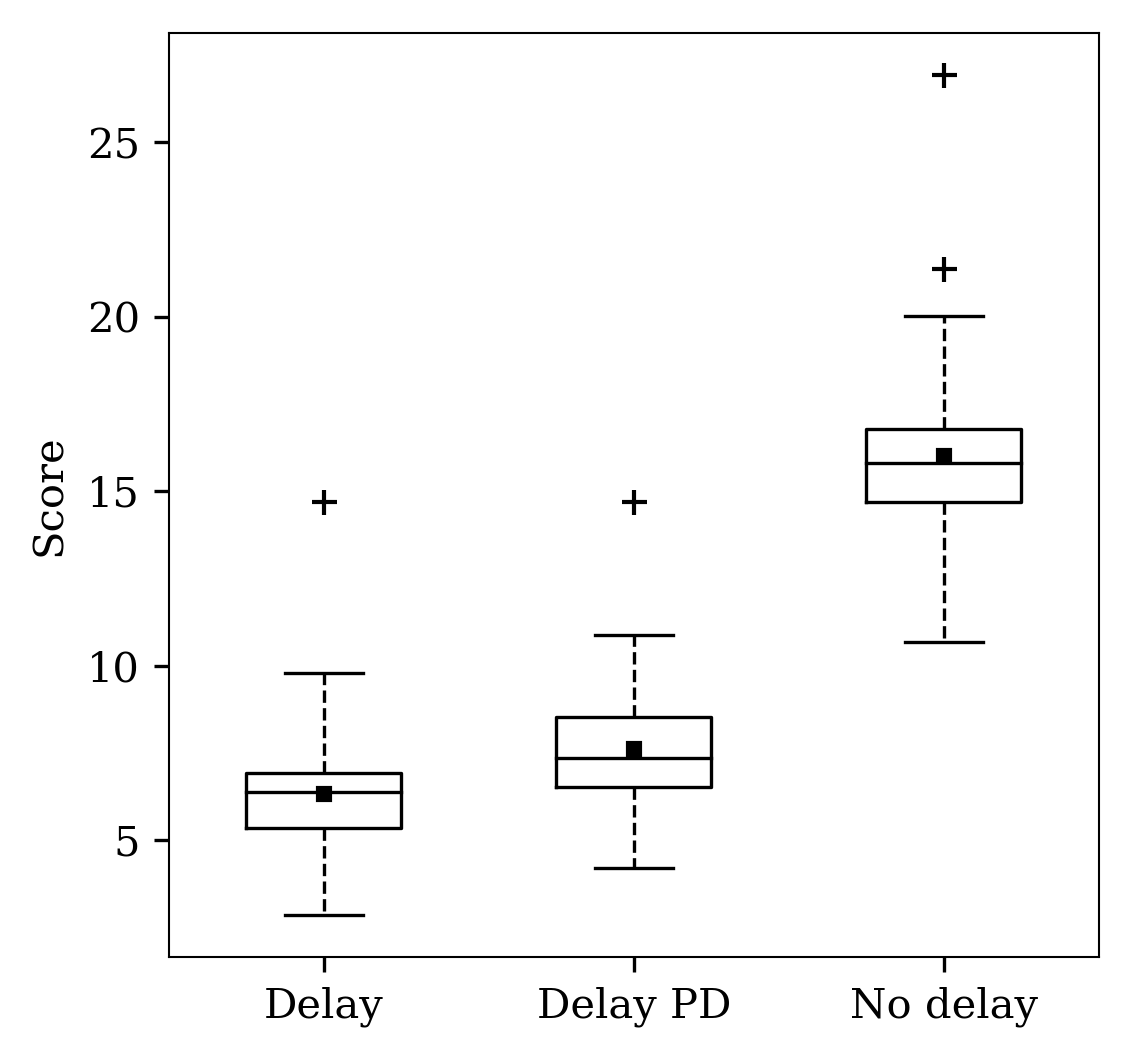
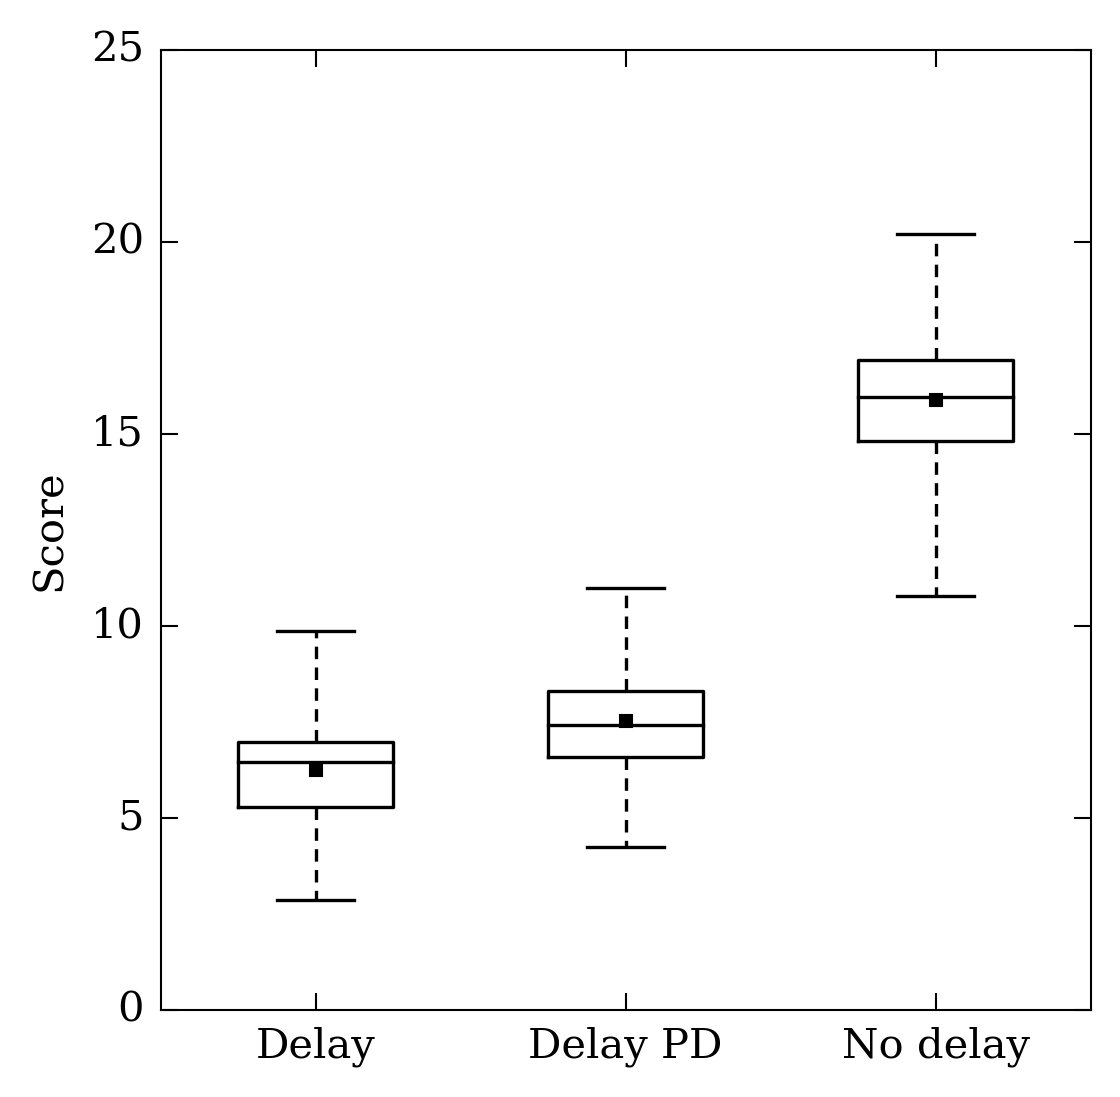
norm fix

diff --git a/tex/discuss.tex b/tex/discuss.tex
@@ -1,12 +1,12 @@
 \section{Performance}
 
-\figref{performanceNorm} together with the statistical data in table \ref{score2} showed that there is a statistical difference in performance when controlling the ROV with and without predictive help. In addition, the effect size of $0.735$ can be categorized as a medium to large effect. Especially when considering how easy and cheap this predictive method is to implement. The subjects performed on average 20\% better. This can be a valuable increase in situations were performance degradation due to communication latency is a problem. With this in mind, H1, that a simple predictor display based on image transformation can increase the operator performance, is therefore verified.
+\figref{performanceNorm} together with the statistical data in table \ref{score2} showed that there is a statistical difference in performance when controlling the ROV with and without predictive help. In addition, the effect size of $0.904$ can be categorized as a medium to large effect. Especially when considering how easy and cheap this predictive method is to implement. The subjects performed on average 20.6\% better. This can be a valuable increase in situations were performance degradation due to communication latency is a problem. With this in mind, H1, that a simple predictor display based on image transformation can increase the operator performance, is therefore verified.
 
-Past research, table \ref{reviewPred}, describes a wide range performance gains from predictive technology. Everything from 8\% to 65\%. It's hard to do a direct comparison to any specific experiment, but a performance increase of 20\% in this experiment is probably in the lower range of what have been found before. What is true though, is that the predictive method described in this thesis is the cheapest and easiest to implement. This holds true when comparing to the experiments in the mentioned table.
+Past research, table \ref{reviewPred}, describes a wide range performance gains from predictive technology. Everything from 8\% to 65\%. It's hard to do a direct comparison to any specific experiment, but a performance increase of 20.6\% in this experiment is probably in the lower range of what has been found before. What is true though, is that the predictive method described in this thesis is the cheapest and easiest to implement. This holds true when comparing to the experiments in the mentioned table.
 
 None of the subjects were told that there would be a predictive display or how it worked. Some of the participants immediately identified what the predictive display was trying to tell them. Others however, didn't understand that there had been a predictive display until the experiment was over. The ones who tried to use the predictive display the way it was intended typically performed better than those who didn't. It may be possible that we could have seen an improved performance, if the subjects were informed how the predictive display works. This can however not be verified unless additional experiments are performed.
 
-It is also interesting the evaluate if participants had any learning effects during the experiment. \figref{learning_effect} shows the score for each display type and further divided into groups depending on the subject had that display as the first, second or third display. As an example, the first of the nine box plots describes the score achieved in the delay condition for those who had that display as their first display. One visible trend is that the participants who had a particular display as their second display, performed better than those who had that display as their first. This performance increase was significant for all displays. Delay: t(18)=2.19, p=0.042, d=0.671, delay PD: t(17)=2.19, p=0.043, d=0.660, no delay: t(17)=3.26, p=0.005, d=0.902. The performance change from \#2 to \#3 in all displays were however not found significant.
+It is also interesting the evaluate if participants had any learning effects during the experiment. \figref{learning_effect} shows the score for each display type and further divided into groups depending if the subject had that display as the first, second or third display. As an example, the first of the nine box plots describes the score achieved in the delay condition for those who had that display as their first display. One visible trend is that the participants who had a particular display as their second display, performed better than those who had that display as their first. This performance increase was significant for all displays. Delay: t(18)=2.19, p=0.042, d=0.671, delay PD: t(17)=2.19, p=0.043, d=0.660, no delay: t(17)=3.26, p=0.005, d=0.902. The performance change from \#2 to \#3 in all displays were however not found significant.
 
 \begin{figure}[h!]
     \centering
@@ -15,7 +15,7 @@ It is also interesting the evaluate if participants had any learning effects dur
     \label{learning_effect}
 \end{figure}
 
-The participants were also asked how much computer games the play. \figref{gamer_performance} shows the score in each display type for gamer (G), versus non gamer (NG). Gamers are defined as those who play video games weekly or more and they made up 30\% of the total experiment group. It is interesting to see that G's only performed better than NG's when using predictive or no delay display. PD: t(26.57)=2.23, p=0.034, d=0.692 and no delay: t(40.79)=2.56, p=0.014, d=0.660.
+The participants were also asked how much computer games they play. \figref{gamer_performance} shows the score in each display type for gamer (G), versus non gamer (NG). Gamers are defined as those who play video games weekly or more and they made up 30\% of the total experiment group. It is interesting to see that G's only performed better than NG's in the second and third condition. PD: t(26.57)=2.23, p=0.034, d=0.692 and no delay: t(40.79)=2.56, p=0.014, d=0.660.
 
 By looking at the performance difference between a delayed display without and with predictive technology. It also becomes clear that gamers had a bigger gain using the predictive display. While NG's had a moderate effect size of 0.577, t(39)=3.27, p=0.002, d=0.577. Gamers had almost twice the effect size of 1.018, t(16)=4.17, $p<.001$, d=1.018. Exactly why G's were able to increase their performance more using the PD is unclear. It could be that the arrow in the PD which acts like an aiming device, is a more familiar concept for gamers.
 

diff --git a/tex/results.tex b/tex/results.tex
@@ -2,7 +2,7 @@
 
 \figref{performanceNorm} shows the normalized score, number of hits in 90 seconds, for each of the display types and all participants. A similar figure with non-normalized values can be found in the appendix at page \textbf{TODO}. \textit{Delay} refers to the \textit{added} delay, which means that "No delay" translates to the inherent system delay of $250 ms$. The numerical values together with the standard deviation (SD) is reported in table \ref{score}. In addition, the percentage difference in means between displays is also reported in that table. The statistical significance and effect size between conditions can be seen in table \ref{score2}.
 
-Using normalized scores, participants performed on average 20.29\% better using the predictive display versus no predictive display, $t(56)=4.82$, $p<.001$, $d=0.735$. In comparison, the subjects performed on average 153.32\% better in the no delay condition versus the delayed condition without predictive help, $t(56)=23.04$, $p<.001$, $d=4.413$. All differences are statistically significant.
+Participants performed on average 20.62\% better using the predictive display versus no predictive display, t(56)=4.80, p$<$.001, d=0.904. In comparison, the subjects performed on average 154.37\% better in the no delay condition versus the delayed condition without predictive help, t(56)=23.15, p$<$.001, d=5.569. All differences are statistically significant.
 
 
 \begin{figure}[h!]
@@ -30,24 +30,14 @@ Using normalized scores, participants performed on average 20.29\% better using 
 
 \section{Subjective delay}
 
-\figref{subjective_delay} shows the reported total delay in seconds for the three conditions in absolute and normalized values. \figref{delay_abs} with absolute values describes the numerical values that the subjects reported. \figref{delay_norm} is better suited to describe the relative differences in reported delay between the conditions. Using normalized values, the participants reported a 20\% decrease in subjective latency using the predictive display versus the normal display with the same latency, t(56)=2.71, p=0.009, d=0.687.
+\figref{subjective_delay_norm} shows the normalized reported total delay in seconds for the three conditions. The participants reported a 11\% decrease in subjective latency using the predictive display versus the normal display with the same latency. This results is however not significant, t(56)=1.40, p=0.167, d=0.356.
 
-\begin{figure}[ht!]
-\begin{subfigure}{0.5\textwidth}
+
+\begin{figure}[h!]
     \centering
-    \includegraphics[width=\linewidth]{subjective_delay_abs}
-    \caption{Absolute values.}
-    \label{delay_abs}
-\end{subfigure}
-\hfill
-\begin{subfigure}{0.5\textwidth}
-    \centering
-    \includegraphics[width=\linewidth]{subjective_delay_norm}
-    \caption{Normalized values}
-    \label{delay_norm}
-\end{subfigure}
-\caption{Reported subjective latency in seconds.}
-\label{subjective_delay}
+    \includegraphics[scale=0.85]{subjective_delay_norm}
+    \caption{Normalized reported subjective latency in seconds.}
+    \label{subjective_delay_norm}
 \end{figure}
 
 \section{Key presses}

diff --git a/tables/score2.tex b/tables/score2.tex
@@ -8,8 +8,8 @@
 \toprule
 \multicolumn{2}{c}{Pair} & \multicolumn{3}{c}{t-test for Equality of Means} &       \\ \cmidrule(lr){3-5}
 \multicolumn{2}{l}{}     & t                  & df             & p                   & d     \\ \midrule
-Delay       & Delay PD   & 4.82               & 56             & $<$.001             & 0.735 \\
-Delay       & No delay   & 23.04              & 56             & $<$.001             & 4.413 \\
-Delay PD    & No delay   & 19.52              & 56             & $<$.001             & 3.861 \\ \bottomrule
+Delay       & Delay PD   & 4.80               & 56             & $<$.001             & 0.904 \\
+Delay       & No delay   & 23.15              & 56             & $<$.001             & 5.569 \\
+Delay PD    & No delay   & 19.66              & 56             & $<$.001             & 4.772 \\ \bottomrule
 \end{tabularx}
 \end{table}

diff --git a/tables/score.tex b/tables/score.tex
@@ -8,8 +8,8 @@
 \toprule
 Display  & Score                       & \multicolumn{3}{c}{Mean difference from} \\ \cmidrule(l){3-5} 
          &                             & Delay        & Delay PD    & No delay    \\ \midrule
-Delay    & 6.32 $\pm$ 1.75 & -            & -16.87\%      & -60.52\%    \\
-Delay PD & 7.60 $\pm$ 1.71 & 20.29\%      & -           & -52.51\%    \\
-No delay & 16.01 $\pm$ 2.53 & 153.32\%     & 110.59\%    & -           \\ \bottomrule
+Delay    & 6.24 $\pm$ 1.39 & -            & -17.10\%      & -60.69\%    \\
+Delay PD & 7.52 $\pm$ 1.43 & 20.62\%      & -           & -52.58\%    \\
+No delay & 15.87 $\pm$ 1.99 & 154.37\%     & 110.88\%    & -           \\ \bottomrule
 \end{tabularx}
 \end{table}
